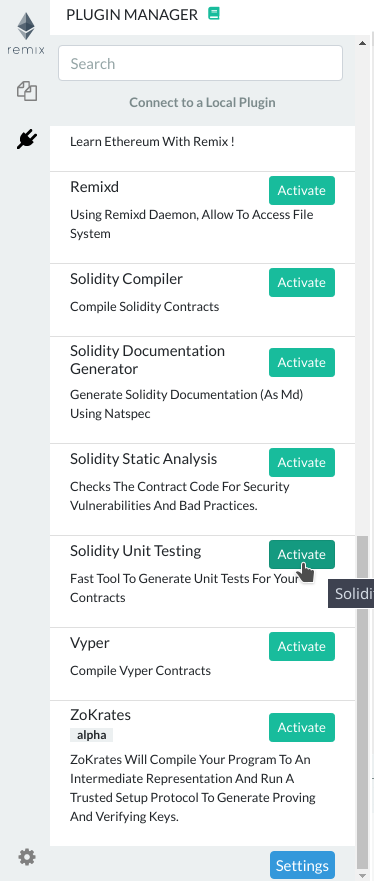
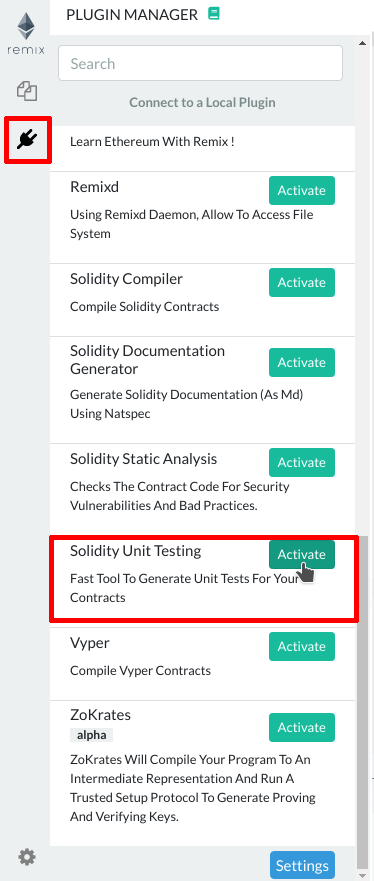
Update unit testing documentation

Changed region(s): [[0.1176, 0.5823, 1.0, 0.7049], [0.0, 0.1226, 0.1471, 0.1839]]

diff --git a/docs/unittesting.md b/docs/unittesting.md
@@ -1,27 +1,27 @@
 Unit Testing
 ============
 
-Click the "double check" (
-![Double check](images/a-user-testing-icon.png)
-) icon to get to the unit testing plugin.  If you don't see this icon, go to the plugin manager and load up the unit testing plugin.
+Click the
+![double check](images/a-user-testing-icon.png)
+ icon to get to the "Solidity Unit Testing" plugin.  If you don't see this icon, go to the plugin manager (Click the ![plug](images/a-plug.png) icon) and load up the unit testing  plugin.
 
-![Unit Testing Section](images/a-unit-testing-from-pm.png)
+![](images/a-unit-testing-from-pm.png)
 
-![Unit Testing Section](images/a-unit-testing-feature.png)
+![](images/a-unit-testing-feature.png)
 
 
 Generate test File
 ------------------
 
 This create a new solidity file in the current folder suffixed with `_test`.
-This file contains the minimun you need for running unit testing.
+This file contains the minimum you need for running unit testing.
 
 Run Tests
 ---------
 
-This executes all tests whose box has been checked below (by default all). The execution is run in a separate environment and the result is displayed below.
+This executes all tests whose box has been checked below (by default all). The execution is run in a separpate environment and the result is displayed below.
 
-![Unit Testing Section](images/a-unit-testing-run-result.png)
+![](images/a-unit-testing-run-result.png)
 
 Here is a list of functions and their supported types that you can use to write your testcases:
 
@@ -33,7 +33,7 @@ Here is a list of functions and their supported types that you can use to write 
 | `Assert.greaterThan()` | `uint`, `int`   |
 | `Assert.lesserThan()`  | `uint`, `int`   |
 
-Click [here](https://github.com/ethereum/remix/blob/master/remix-tests/tests/examples_4/SafeMath_test.sol) for some code sample.
+Click [here](https://github.com/ethereum/remix/blob/master/remix-tests/tests/examples_4/SafeMath_test.sol) for a test file example
 
 Continuous integration
 ----------------------
